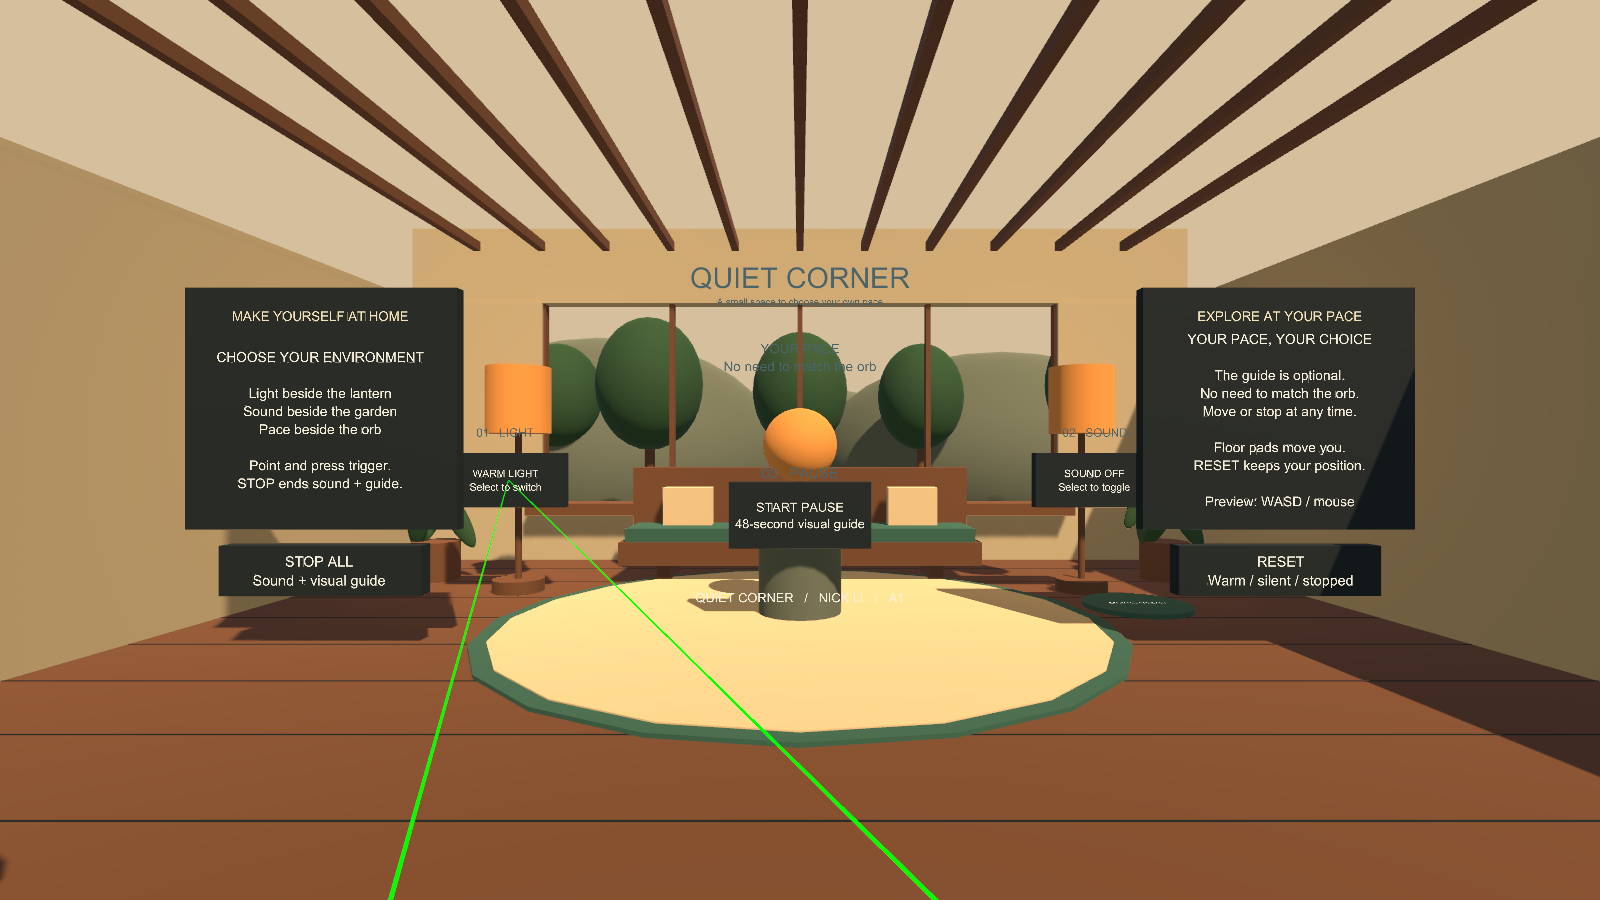
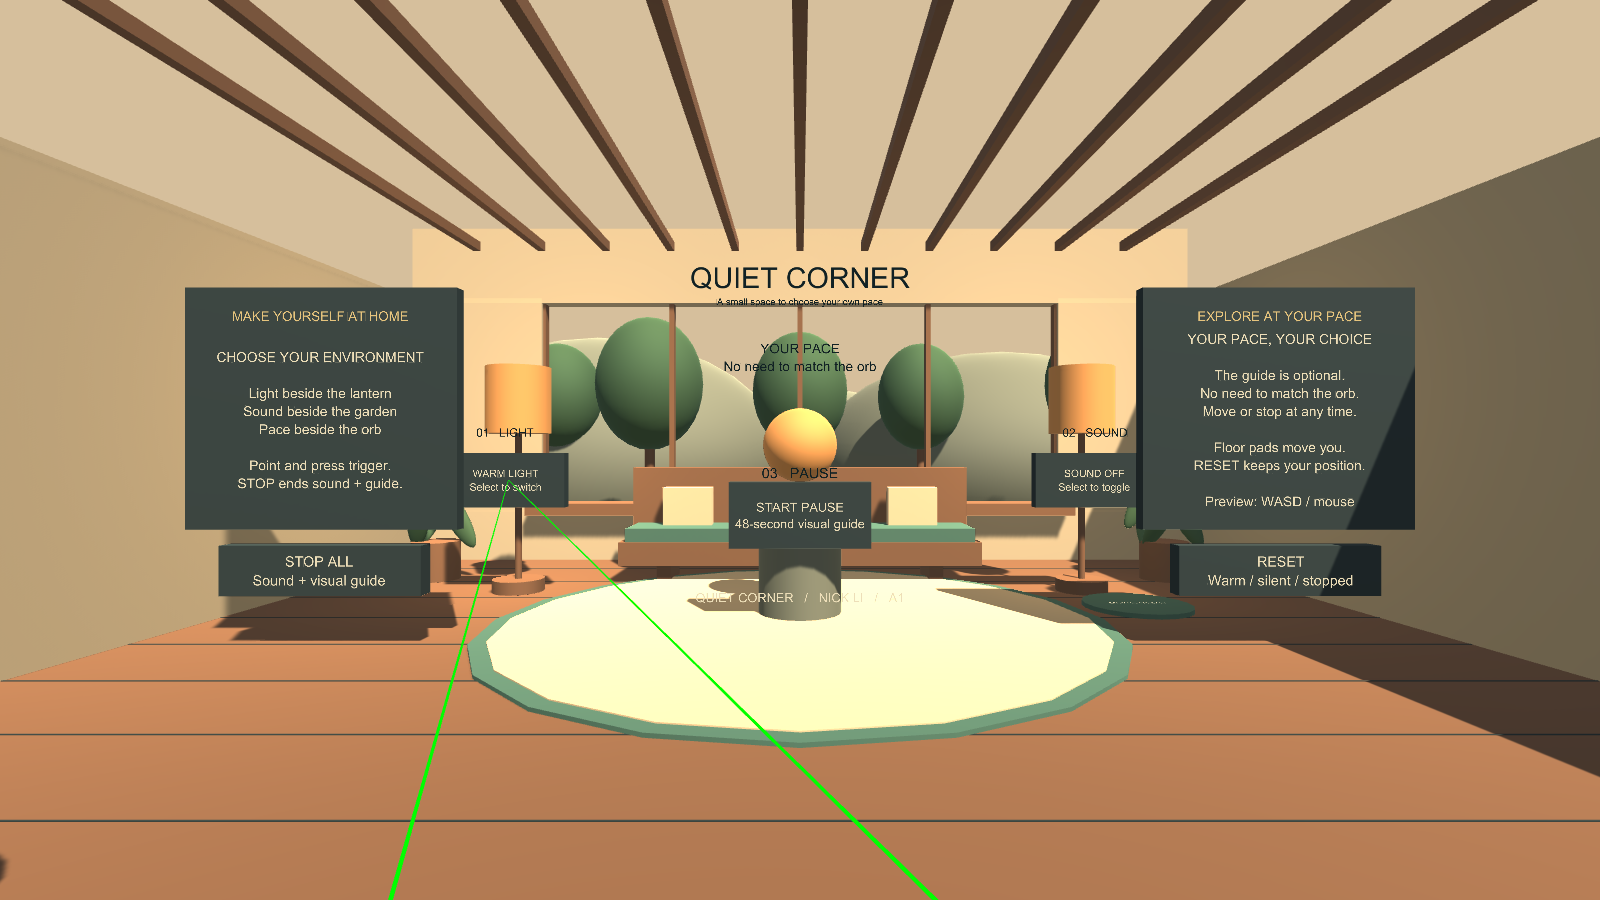
Record verified public Pages deployment and final technical evidence

diff --git a/README.md b/README.md
@@ -1,5 +1,7 @@
 # Quiet Corner - DDES9902 A1
 
+Publication verified 12 October 2026: the public WebGL scene loaded and mouse selection changed LIGHT to cool. See `Evidence/Publication_Verification.txt` and saved public-page screenshots. Physical headset and human usability tests remain unperformed.
+
 By Nick Li. A greybox prototype for a brief, self-directed pause between study sessions.
 Built on the previous Quiet Corner / Chapter 6 project, using Unity 6000.4.0a2.
 
